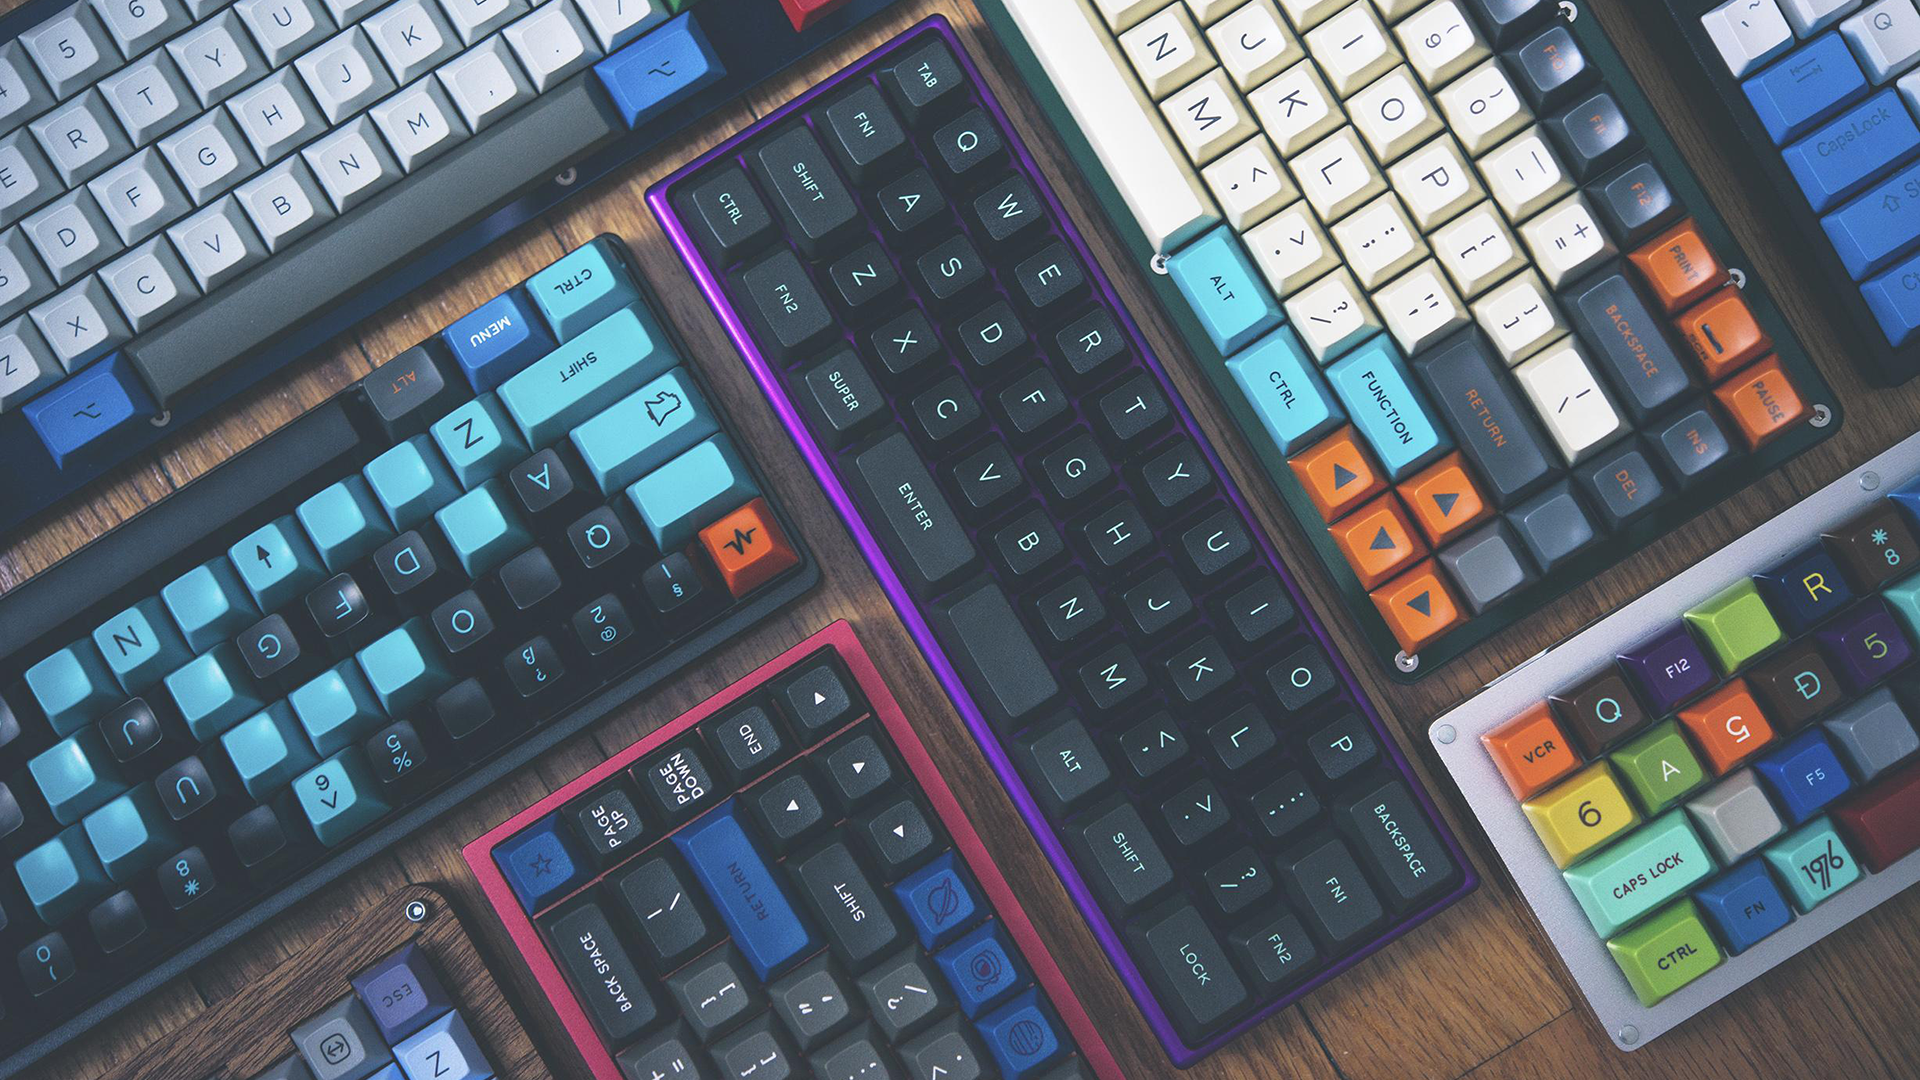
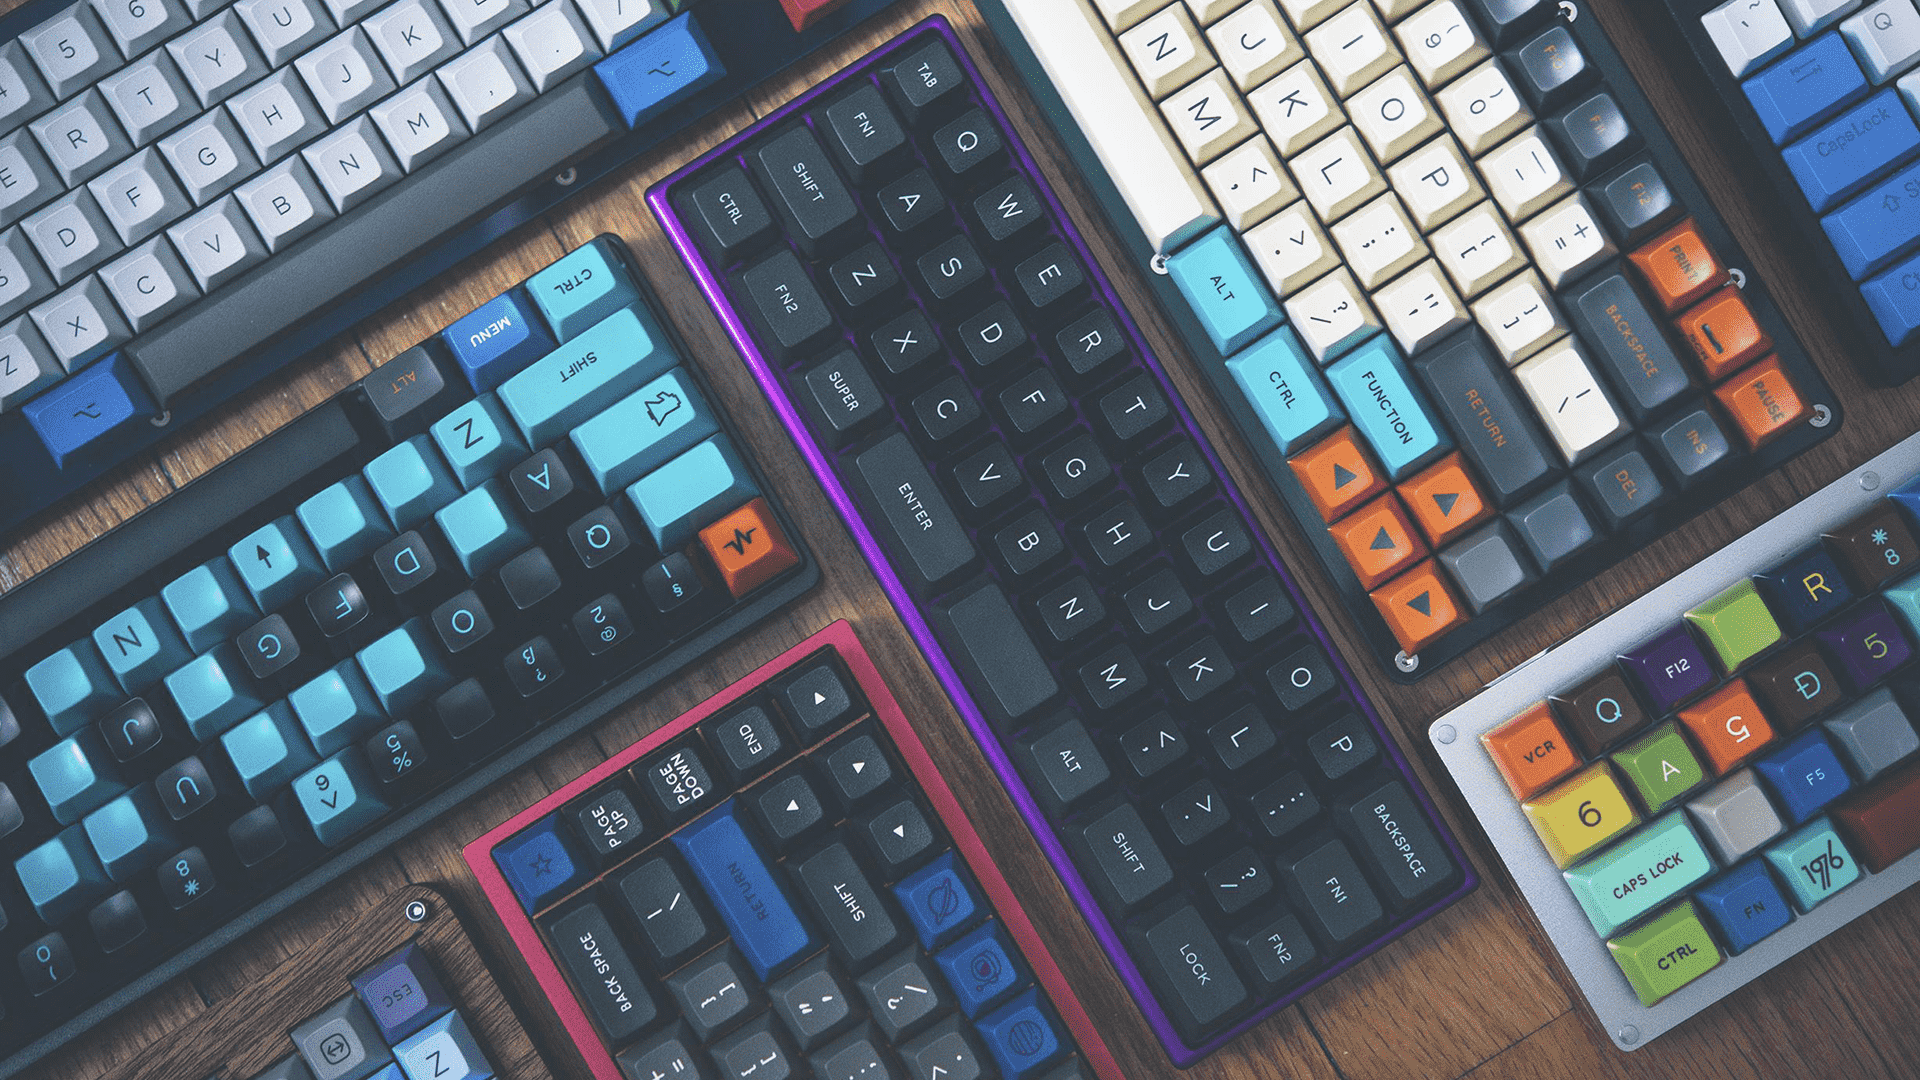
style changes to about me section
Added compression to image

diff --git a/css/main.scss b/css/main.scss
@@ -207,6 +207,8 @@ body {
 .read-more-container {
     display: none;
     margin-top: 1em;
+    padding-left: 2em;
+    padding-right: 2em;
     padding-top: 1em;
     padding-bottom: 1em;
     box-shadow: 4px 4px 14px #000;
@@ -283,7 +285,7 @@ body {
     );
     margin: 1em 0em;
     padding: 3em;
-    height: 700px;
+    height: 750px;
     animation-name: profile-reveal-load-gradient;
     animation-duration: 1.5s;
     animation-direction: forwards;
@@ -308,7 +310,8 @@ body {
 
     .container {
 
-        padding-top: 2em;
+        padding-top: 1em;
+        padding-bottom: 1em;
         animation-name: profile-reveal-from-below;
         animation-duration: 1.5s;
         animation-direction: forwards;
@@ -320,11 +323,17 @@ body {
             font-size: 2.5em;
             font-weight: bold;
             letter-spacing: 5px;
-            line-height: 3;
+            line-height: 2;
             font-family: 'Varela Round';
         }
 
     }
+}
+
+hr {
+    border: 1px solid rgba(185, 185, 185, 0.541);
+    border-radius: 5px;
+    margin-bottom: 5px;
 }
 
 .about-me .container {
@@ -341,7 +350,7 @@ body {
         // opacity: 0.6;
         position: absolute;
         left: 0;
-        top: 0;
+        bottom: 0;
         width: auto;
         height: auto;
         -webkit-mask-image:-webkit-gradient(linear, left top, left bottom, from(rgba(0,0,0,0)), to(rgba(0,0,0,1)));
@@ -363,10 +372,13 @@ body {
         .about-me-paragraph {
             text-align: justify;
             text-justify: inter-word;
-            padding: 0 2em;
+            padding: 1em 2em;
             line-height: 1.6em;
             font-size: 1em;
-
+            font-weight: 400;
+            background-color: rgba(111, 178, 240, 0.76);
+            border-radius: 1em;
+            color: honeydew;
         }
 
         .about-me-cta {
@@ -534,7 +546,7 @@ nav {
             }
     
             .about-me-paragraph {
-                padding: 1em 0em; //
+                padding: 1em 1em; //
                 font-size: 1em;
             }
     
@@ -544,6 +556,44 @@ nav {
                     font-size: 1.2em; //
                 }
             }
+        }
+    }
+
+    .profile-image-container {
+
+        background-color: var(--primary-colour);
+        background: repeating-linear-gradient(
+        45deg,
+        var(--primary-colour),
+        var(--primary-colour),
+        #1481da 10px,
+        #1e8ccc 10px,
+        );
+        margin: 1em 0em;
+        padding: 3em;
+        height: 750px;
+        animation-name: profile-reveal-load-gradient;
+        animation-duration: 1.5s;
+        animation-direction: forwards;
+    
+        .profile-image {
+            margin-top: 2em;
+        }
+    
+        .container {
+            margin-top: 0;
+    
+            .profile-words {
+    
+                color: rgb(245, 245, 245);
+                text-align: center;
+                font-size: 3em;
+                font-weight: 600;
+                letter-spacing: 5px;
+                line-height: 2;
+                font-family: 'Varela Round';
+            }
+    
         }
     }
 }
@@ -638,7 +688,7 @@ nav {
             }
     
             .about-me-paragraph {
-                padding: 1em 0em; //
+                padding: 2em 2em; //
                 font-size: 1em;
             }
     

diff --git a/css/main.css b/css/main.css
@@ -263,6 +263,8 @@ body {
 .read-more-container {
   display: none;
   margin-top: 1em;
+  padding-left: 2em;
+  padding-right: 2em;
   padding-top: 1em;
   padding-bottom: 1em;
   -webkit-box-shadow: 4px 4px 14px #000;
@@ -380,7 +382,7 @@ body {
   background: repeating-linear-gradient(45deg, var(--primary-colour), var(--primary-colour), #1481da 10px, #1e8ccc 10px);
   margin: 1em 0em;
   padding: 3em;
-  height: 700px;
+  height: 750px;
   -webkit-animation-name: profile-reveal-load-gradient;
           animation-name: profile-reveal-load-gradient;
   -webkit-animation-duration: 1.5s;
@@ -411,7 +413,8 @@ body {
 }
 
 .profile-image-container .container {
-  padding-top: 2em;
+  padding-top: 1em;
+  padding-bottom: 1em;
   -webkit-animation-name: profile-reveal-from-below;
           animation-name: profile-reveal-from-below;
   -webkit-animation-duration: 1.5s;
@@ -426,8 +429,14 @@ body {
   font-size: 2.5em;
   font-weight: bold;
   letter-spacing: 5px;
-  line-height: 3;
+  line-height: 2;
   font-family: 'Varela Round';
+}
+
+hr {
+  border: 1px solid rgba(185, 185, 185, 0.541);
+  border-radius: 5px;
+  margin-bottom: 5px;
 }
 
 .about-me .container {
@@ -444,7 +453,7 @@ body {
 .about-me .container .background-image {
   position: absolute;
   left: 0;
-  top: 0;
+  bottom: 0;
   width: auto;
   height: auto;
   -webkit-mask-image: -webkit-gradient(linear, left bottom, left top, from(black), to(rgba(0, 0, 0, 0)));
@@ -469,9 +478,13 @@ body {
 .about-me .container .right-column .about-me-paragraph {
   text-align: justify;
   text-justify: inter-word;
-  padding: 0 2em;
+  padding: 1em 2em;
   line-height: 1.6em;
   font-size: 1em;
+  font-weight: 400;
+  background-color: rgba(111, 178, 240, 0.76);
+  border-radius: 1em;
+  color: honeydew;
 }
 
 .about-me .container .right-column .about-me-cta {
@@ -627,11 +640,39 @@ nav li a:hover {
     padding: 0 2em;
   }
   .about-me .container .right-column .about-me-paragraph {
-    padding: 1em 0em;
+    padding: 1em 1em;
     font-size: 1em;
   }
   .about-me .container .right-column .about-me-cta a {
     font-size: 1.2em;
+  }
+  .profile-image-container {
+    background-color: var(--primary-colour);
+    background: repeating-linear-gradient(45deg, var(--primary-colour), var(--primary-colour), #1481da 10px, #1e8ccc 10px);
+    margin: 1em 0em;
+    padding: 3em;
+    height: 750px;
+    -webkit-animation-name: profile-reveal-load-gradient;
+            animation-name: profile-reveal-load-gradient;
+    -webkit-animation-duration: 1.5s;
+            animation-duration: 1.5s;
+    -webkit-animation-direction: forwards;
+            animation-direction: forwards;
+  }
+  .profile-image-container .profile-image {
+    margin-top: 2em;
+  }
+  .profile-image-container .container {
+    margin-top: 0;
+  }
+  .profile-image-container .container .profile-words {
+    color: whitesmoke;
+    text-align: center;
+    font-size: 3em;
+    font-weight: 600;
+    letter-spacing: 5px;
+    line-height: 2;
+    font-family: 'Varela Round';
   }
 }
 
@@ -716,7 +757,7 @@ nav li a:hover {
     padding: 0 2em;
   }
   .about-me .container .right-column .about-me-paragraph {
-    padding: 1em 0em;
+    padding: 2em 2em;
     font-size: 1em;
   }
   .about-me .container .right-column .about-me-cta a {

diff --git a/index.html b/index.html
@@ -35,7 +35,7 @@
     <div class="profile-image-container">
         <img src="./images/Sean.png" alt="Illustration image" class="profile-image">
         <div class="container">
-            <p class="profile-words">web designer<br> creative thinker<br> language lover</p>
+            <p class="profile-words">web designer,<br> creative thinker,<br> language lover.</p>
         </div>
     </div>
 
@@ -46,6 +46,7 @@
             
             <div class="right-column reveal">
                 <h1 class="about-me-text">about me</h1>
+                <hr>
                 <p class="about-me-paragraph">
                     Hi, I'm Sean.
                     <br>
@@ -63,6 +64,7 @@
                     <br>
                     <br>I hope you enjoy the current projects I have to show, as they were so fun to make and so much was learnt along the way.
                 </p>
+                <hr>
                 <div class="about-me-cta">
                     <h1 class="about-me-text-white">contact me</h1>
                     <p></p>
